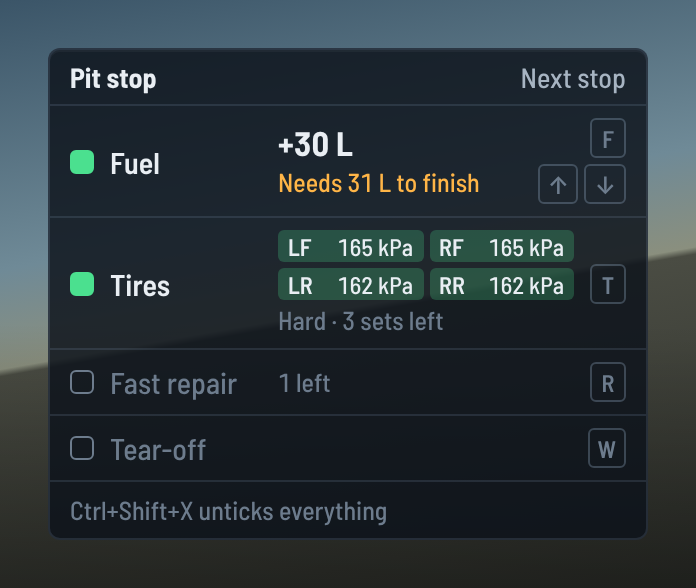
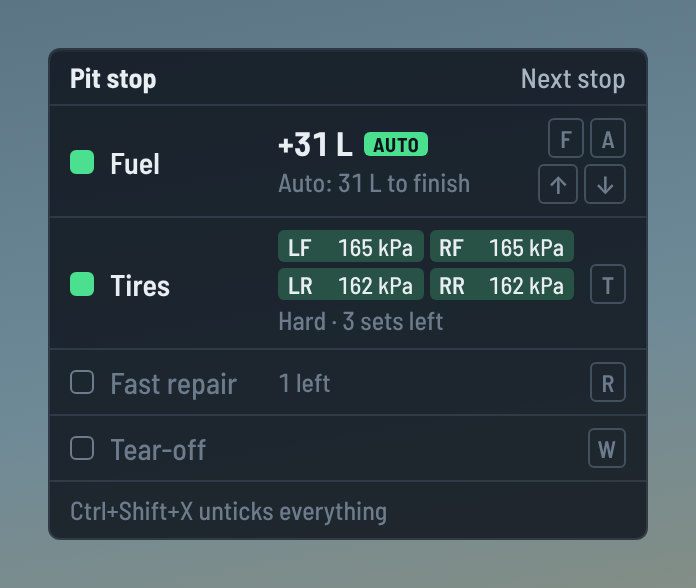
Pit stop: auto fuel to finish
Keeps iRacing's fuel amount at what you need to finish, updating it as the
estimate changes (a litre or more out, at most every 10 s, not in the pit
lane), so the amount is right whenever you box. On and off from the
Pit stop options or a new Auto fuel key (Ctrl+Shift+A); the fuel row
shows AUTO. Setting fuel by hand or unticking everything pauses it, the
fuel key or the auto key resume it.

Claude-Session: https://claude.ai/code/session_013hzfFXxra7Gh1adzFYjA4b

diff --git a/src/lib/pit.ts b/src/lib/pit.ts
@@ -7,6 +7,7 @@ import { useEffect } from "react";
 import { create } from "zustand";
 import { api, isTauri, on } from "./bridge";
 import { opt } from "./config";
+import { updateConfig } from "./store";
 import { fuel as conv, fuelUnit, type Units } from "./format";
 import { useLive } from "./store";
 import type { FuelPayload, PitAction, PitCommand, PitPayload } from "./types";
@@ -40,7 +41,7 @@ export function steppedFuel(from: number, delta: number, tankMax: number): numbe
  * fuel sets the plan, or unticks fuel when that amount is already set; tires
  * tick all four, or untick them when any are ticked.
  */
-export function pitCommands(action: Exclude<PitAction, "fuelUp" | "fuelDown">, pit: PitPayload, plan: number | null, mode: FuelMode): PitCommand[] {
+export function pitCommands(action: Exclude<PitAction, "fuelUp" | "fuelDown" | "autoFuel">, pit: PitPayload, plan: number | null, mode: FuelMode): PitCommand[] {
   switch (action) {
     case "fuel":
       if (mode === "manual") return [pit.fuel ? { kind: "clearFuel" } : { kind: "fuel", litres: 0 }];
@@ -61,6 +62,35 @@ export function pitCommands(action: Exclude<PitAction, "fuelUp" | "fuelDown">, p
 
 /** The pit action last pressed and when, so the widget can light up its key. */
 export const usePitPressed = create<{ action: PitAction | null; at: number }>(() => ({ action: null, at: 0 }));
+
+/**
+ * Auto fuel to finish: whether it's paused because you changed the fuel by
+ * hand. Pressing the fuel key, or turning auto fuel back on, resumes it.
+ */
+export const useAutoFuel = create<{ paused: boolean }>(() => ({ paused: false }));
+
+/** Auto fuel only re-sends once the plan is this far (litres) from what's set... */
+export const AUTO_FUEL_TOLERANCE = 1;
+/** ...and at most this often (ms), so a moving estimate doesn't spam iRacing. */
+const AUTO_FUEL_EVERY_MS = 10_000;
+/** When auto fuel last sent; reset when it's turned on or resumed, so it acts at once. */
+let autoLastSent = -Infinity;
+const resumeAutoFuel = () => {
+  autoLastSent = -Infinity;
+  useAutoFuel.setState({ paused: false });
+};
+
+/**
+ * What auto fuel should send now, if anything: the amount to finish, ticked,
+ * when it's a litre or more from what iRacing has; untick fuel when nothing
+ * more is needed. Null to leave it alone.
+ */
+export function autoFuelCommand(pit: PitPayload, need: number | null): PitCommand | null {
+  if (need == null) return null;
+  if (need <= 0) return pit.fuel ? { kind: "clearFuel" } : null;
+  if (pit.fuel && Math.abs(pit.fuelAmount - need) < AUTO_FUEL_TOLERANCE) return null;
+  return { kind: "fuel", litres: need };
+}
 
 /** What was last sent, for the widget to show briefly. */
 export const usePitSent = create<{ text: string | null; at: number }>(() => ({ text: null, at: 0 }));
@@ -113,6 +143,17 @@ let fuelByHand = false;
 export function runPitAction(action: PitAction) {
   usePitPressed.setState({ action, at: performance.now() });
   const { s, mode, litres, text } = plan();
+  if (action === "autoFuel") {
+    // On or off, kept in the settings; turning it on (or back on) resumes it.
+    const on = !opt(s.config.widgets.pitstop, "keepFuelSet", false) || useAutoFuel.getState().paused;
+    resumeAutoFuel();
+    updateConfig((c) => ({
+      ...c,
+      widgets: { ...c.widgets, pitstop: { ...c.widgets.pitstop, options: { ...c.widgets.pitstop.options, keepFuelSet: on } } },
+    }));
+    usePitSent.setState({ text: on ? "Auto fuel to finish on" : "Auto fuel off", at: performance.now() });
+    return;
+  }
   const pit = s.field?.pit;
   if (!pit?.available) return;
   if (action === "fuelUp" || action === "fuelDown") {
@@ -122,17 +163,21 @@ export function runPitAction(action: PitAction) {
     const next = steppedFuel(from, action === "fuelUp" ? step : -step, s.field?.fuel.max ?? 0);
     stepped = { litres: next, at: now };
     fuelByHand = true;
+    // Set by hand: auto fuel steps back until you ask for it again.
+    useAutoFuel.setState({ paused: true });
     void send([next > 0 ? { kind: "fuel", litres: next } : { kind: "clearFuel" }], fuelText(next, s.config.general.units));
     return;
   }
   stepped = null;
   if (action === "fuel" || action === "clear") fuelByHand = false;
+  if (action === "fuel") resumeAutoFuel();
+  if (action === "clear") useAutoFuel.setState({ paused: true });
   void send(pitCommands(action, pit, litres, mode), text);
 }
 
-/** Browser preview: Shift + F, ↑, ↓, T, R, W and X stand in for the Ctrl+Shift hotkeys. */
+/** Browser preview: Shift + F, ↑, ↓, A, T, R, W and X stand in for the Ctrl+Shift hotkeys. */
 const PREVIEW_KEYS: Record<string, PitAction> = {
-  f: "fuel", arrowup: "fuelUp", arrowdown: "fuelDown", t: "tires", r: "fastRepair", w: "tearoff", x: "clear",
+  f: "fuel", arrowup: "fuelUp", arrowdown: "fuelDown", a: "autoFuel", t: "tires", r: "fastRepair", w: "tearoff", x: "clear",
 };
 
 /**
@@ -165,6 +210,27 @@ export function usePitControl(owner = true) {
       window.removeEventListener("keydown", key);
     };
   }, [live]);
+
+  // Auto fuel to finish: keep iRacing's amount at what you need, as the
+  // estimate changes. Not while you're in the pit lane (the stop is under
+  // way), and not when paused because you set it by hand.
+  const keep = useLive((s) => opt(s.config.widgets.pitstop, "keepFuelSet", false));
+  useEffect(() => {
+    if (!live || !keep) return;
+    autoLastSent = -Infinity;
+    return useLive.subscribe((s, prev) => {
+      if (s.field === prev.field || useAutoFuel.getState().paused) return;
+      const pit = s.field?.pit;
+      if (!pit?.available || s.tick?.onPitRoad) return;
+      const now = performance.now();
+      if (now - autoLastSent < AUTO_FUEL_EVERY_MS) return;
+      const need = fuelPlan("finish", s.field?.fuel, opt(s.config.widgets.fuel, "marginLaps", 0.5));
+      const cmd = autoFuelCommand(pit, need);
+      if (!cmd) return;
+      autoLastSent = now;
+      void api.pitCommand(cmd);
+    });
+  }, [live, keep]);
 
   // Auto fuel: set the planned amount as you cross into the pit lane.
   useEffect(() => {

diff --git a/src/widgets/PitStop.tsx b/src/widgets/PitStop.tsx
@@ -2,7 +2,7 @@ import { useEffect, useState, type ReactNode } from "react";
 import { opt } from "../lib/config";
 import { fullLabel, shortLabel, type ActionId } from "../lib/controls";
 import { fuel as conv, fuelUnit, pressure } from "../lib/format";
-import { fuelPlan, usePitPressed, usePitSent, type FuelMode } from "../lib/pit";
+import { fuelPlan, useAutoFuel, usePitPressed, usePitSent, type FuelMode } from "../lib/pit";
 import { useLive } from "../lib/store";
 import { Empty, Panel } from "./Panel";
 import type { WidgetProps } from "./registry";
@@ -34,6 +34,8 @@ export function PitStop({ config }: WidgetProps) {
   const margin = useLive((s) => opt(s.config.widgets.fuel, "marginLaps", 0.5));
   const inCar = useLive((s) => s.tick?.isOnTrack ?? false);
   const mode = opt<FuelMode>(config, "fuelMode", "finish");
+  const autoOn = opt(config, "keepFuelSet", false);
+  const autoPaused = useAutoFuel((s) => s.paused);
   const showKeys = opt(config, "showKeys", true);
   const controls = useLive((s) => s.config.general.controls);
   const lit = useLitAction();
@@ -70,7 +72,16 @@ export function PitStop({ config }: WidgetProps) {
 
   let fuelNote: ReactNode;
   let fuelWarn = false;
-  if (mode === "manual") {
+  const finish = fuelPlan("finish", fuel, margin);
+  if (autoOn) {
+    // Auto fuel to finish keeps iRacing's amount right, so the note says what it's doing.
+    if (autoPaused) {
+      fuelNote = finish == null ? "Auto paused: set by hand" : `Auto paused · needs ${v(finish)} ${u}`;
+      fuelWarn = finish != null && finish > 0 && (!pit.fuel || Math.abs(pit.fuelAmount - finish) >= 1);
+    } else {
+      fuelNote = finish == null ? "Auto: plan after a green lap" : finish === 0 ? "Auto: enough to finish" : `Auto: ${v(finish)} ${u} to finish`;
+    }
+  } else if (mode === "manual") {
     fuelNote = "Hotkey keeps iRacing's amount";
   } else if (plan == null) {
     fuelNote = "Plan after a green lap";
@@ -84,8 +95,11 @@ export function PitStop({ config }: WidgetProps) {
 
   return (
     <Panel className="pitstop" title="Pit stop" aside={<span className={problem ? "pit-problem" : ""}>{aside}</span>}>
-      <Row label="Fuel" on={pit.fuel} hotkeys={hints(["pit.fuel"], ["pit.fuelUp", "pit.fuelDown"])}>
-        <span className="pit-value">{pit.fuel ? `+${v(pit.fuelAmount)} ${u}` : "No fuel"}</span>
+      <Row label="Fuel" on={pit.fuel} hotkeys={hints(["pit.fuel", "pit.autoFuel"], ["pit.fuelUp", "pit.fuelDown"])}>
+        <span className="pit-value">
+          {pit.fuel ? `+${v(pit.fuelAmount)} ${u}` : "No fuel"}
+          {autoOn && <span className={`pit-auto ${autoPaused ? "is-paused" : ""}`} title="Auto fuel to finish">AUTO</span>}
+        </span>
         <span className={`pit-note ${fuelWarn ? "is-warn" : ""}`}>{fuelNote}</span>
       </Row>
       <Row label="Tires" on={anyTire} hotkeys={hints(["pit.tires"])}>

diff --git a/scripts/check-pit.ts b/scripts/check-pit.ts
@@ -1,0 +1,25 @@
+// Checks auto fuel to finish: what it sends for a given pit menu and plan.
+// Run it like check-config.ts:
+//
+//   npx tsc --outDir node_modules/.cache/check --module commonjs --moduleResolution node --target ES2021 --strict --skipLibCheck scripts/check-pit.ts
+//   echo '{"type":"commonjs"}' > node_modules/.cache/check/package.json
+//   node node_modules/.cache/check/scripts/check-pit.js
+
+import { autoFuelCommand } from "../src/lib/pit";
+import type { PitPayload } from "../src/lib/types";
+
+const menu = (fuel: boolean, fuelAmount: number) => ({ fuel, fuelAmount }) as PitPayload;
+const cases: [PitPayload, number | null, string][] = [
+  [menu(false, 0), null, "null"], // no plan yet: leave it
+  [menu(false, 0), 28, '{"kind":"fuel","litres":28}'], // tick it with the amount
+  [menu(true, 27.6), 28, "null"], // within a litre: leave it
+  [menu(true, 20), 28, '{"kind":"fuel","litres":28}'], // a litre or more off: update
+  [menu(true, 35), 28, '{"kind":"fuel","litres":28}'], // too much: bring it down
+  [menu(true, 10), 0, '{"kind":"clearFuel"}'], // enough already: untick
+  [menu(false, 10), 0, "null"], // already unticked
+];
+for (const [pit, need, want] of cases) {
+  const got = JSON.stringify(autoFuelCommand(pit, need));
+  if (got !== want) throw new Error(`fuel ${pit.fuel} ${pit.fuelAmount}, need ${need}: got ${got}, want ${want}`);
+}
+console.log(`pit checks passed (${cases.length})`);

diff --git a/src/lib/controls.ts b/src/lib/controls.ts
@@ -29,7 +29,7 @@ export interface ControlBinding {
 export type ActionId =
   | "overlay.edit" | "overlay.toggle" | "layout.next"
   | "layout.1" | "layout.2" | "layout.3" | "layout.4" | "layout.5" | "layout.6" | "layout.7" | "layout.8" | "layout.9"
-  | "pit.fuel" | "pit.fuelUp" | "pit.fuelDown" | "pit.tires" | "pit.fastRepair" | "pit.tearoff" | "pit.clear";
+  | "pit.fuel" | "pit.fuelUp" | "pit.fuelDown" | "pit.autoFuel" | "pit.tires" | "pit.fastRepair" | "pit.tearoff" | "pit.clear";
 
 export interface ActionMeta {
   id: ActionId;
@@ -49,6 +49,7 @@ export const ACTIONS: ActionMeta[] = [
   { id: "pit.fuel", label: "Fuel: set the plan, or untick", group: "Pit stop", key: "KeyF" },
   { id: "pit.fuelUp", label: "More fuel", group: "Pit stop", key: "ArrowUp" },
   { id: "pit.fuelDown", label: "Less fuel", group: "Pit stop", key: "ArrowDown" },
+  { id: "pit.autoFuel", label: "Auto fuel to finish: on or off", group: "Pit stop", key: "KeyA" },
   { id: "pit.tires", label: "Four tires, or none", group: "Pit stop", key: "KeyT" },
   { id: "pit.fastRepair", label: "Fast repair", group: "Pit stop", key: "KeyR" },
   { id: "pit.tearoff", label: "Tear-off", group: "Pit stop", key: "KeyW" },

diff --git a/src/lib/config.ts b/src/lib/config.ts
@@ -283,6 +283,7 @@ export const WIDGETS: WidgetMeta[] = [
         ],
       },
       { key: "fuelStep", label: "Fuel up and down step", type: "number", default: 5, min: 1, max: 20, suffix: "L", help: "How much the more fuel and less fuel controls add or take off, in litres" },
+      { key: "keepFuelSet", label: "Auto fuel to finish", type: "toggle", default: false, help: "Keeps iRacing's fuel amount at what you need to finish (with the Fuel widget's margin), updating it as the estimate changes, so whenever you pit it's right. Changing the fuel by hand pauses it; the Auto fuel key turns it on and off" },
       { key: "autoFuel", label: "Set fuel as you enter the pits", type: "toggle", default: false, help: "Ticks fuel with the planned amount when you cross pit entry, unless it's already set or you've changed it with more or less fuel" },
       { key: "showKeys", label: "Show the hotkeys", type: "toggle", default: true, help: "The key or wheel button for each row" },
     ],

diff --git a/src/styles/overlay.css b/src/styles/overlay.css
@@ -2844,3 +2844,19 @@
 [data-theme="light"] .rate-btn:not(.is-on) {
   color: var(--ink-2);
 }
+
+/* Auto fuel to finish, in the Pit stop's fuel row. */
+.pit-auto {
+  margin-left: 6px;
+  padding: 0 4px;
+  border-radius: 3px;
+  background: var(--gain);
+  color: var(--panel-solid);
+  font-size: 10px;
+  font-weight: 800;
+  letter-spacing: 0.04em;
+  vertical-align: 2px;
+}
+.pit-auto.is-paused {
+  background: var(--ink-3);
+}

diff --git a/src/lib/types.ts b/src/lib/types.ts
@@ -393,7 +393,7 @@ export interface ButtonPress {
 }
 
 /** What a pit hotkey asks for. */
-export type PitAction = "fuel" | "fuelUp" | "fuelDown" | "tires" | "fastRepair" | "tearoff" | "clear";
+export type PitAction = "fuel" | "fuelUp" | "fuelDown" | "autoFuel" | "tires" | "fastRepair" | "tearoff" | "clear";
 
 export interface FieldPayload {
   clock: SessionClock;

diff --git a/README.md b/README.md
@@ -29,7 +29,7 @@ layout turns on fewer, and you can place each one wherever you like.
   delta graph, a lap log, live coaching, inputs, car dynamics, dash lights, fuel, tires, pit stop,
   weather, a radar and an LED flag board. Each one has its own options.
 - **Pit stop controls**: tick fuel (enough to finish, a full tank, or a few
-  litres more or less), tires, fast repair and a tear-off for your next stop
+  litres more or less, or let auto fuel keep it at enough to finish), tires, fast repair and a tear-off for your next stop
   without opening iRacing's pit menu, and see what iRacing has ticked.
 - **Your keys, your wheel buttons**: every shortcut can be changed, and any
   action can also go on a button on your wheel, button box or gamepad.
@@ -350,6 +350,7 @@ default keys; put them on other keys or on buttons in
 | -------------------- | ---- |
 | `Ctrl + Shift + F`   | Fuel: the amount to finish (from the Fuel widget, with its safety margin), or a full tank. Press again to untick it, or to update it once the amount has changed. |
 | `Ctrl + Shift + ↑` `↓` | A few litres more or less (5 by default). Quick presses add up. |
+| `Ctrl + Shift + A`   | Auto fuel to finish, on or off (see below) |
 | `Ctrl + Shift + T`   | All four tires, or untick them |
 | `Ctrl + Shift + R`   | Fast repair |
 | `Ctrl + Shift + W`   | Windscreen tear-off |
@@ -364,10 +365,23 @@ take `Ctrl+Shift+T` and the rest from other programs the rest of the time. Each
 row shows its key, or its wheel button if it has one, and lights it up for a
 moment when you press it. Off by default.
 
+**Auto fuel to finish.** With it on, Tenths keeps iRacing's fuel amount at
+what you need to finish (from the Fuel widget, with its safety margin),
+updating it as the estimate changes, so whenever you box the amount is already
+right. It only changes the amount when it's a litre or more out, at most every
+10 seconds, and not while you're in the pit lane. The fuel row shows **AUTO**.
+Changing the fuel with more or less, or unticking everything, pauses it (AUTO
+goes grey) so it doesn't fight you; the fuel key or the Auto fuel key picks it
+back up.
+
+This is Tenths' own, using the same commands as the keys. iRacing also has an
+AutoFuel of its own (the checkbox in the fuel black box, or the `#autofuel`
+chat command), which plans from its own fuel data; use one or the other.
+
 *Options*: what the fuel key adds (enough to finish, a full tank, or the
-amount already set in iRacing), how much more or less fuel changes it, set
-fuel automatically as you enter the pits (skipped if you've changed it by
-hand), and show the keys.
+amount already set in iRacing), how much more or less fuel changes it, auto
+fuel to finish, set fuel automatically as you enter the pits (skipped if
+you've changed it by hand), and show the keys.
 
 ### Radar
 
@@ -731,8 +745,9 @@ cargo run -p telemetry --example timed_finish -- race.ibt  # flags and time left
 
 Before committing, run `npm run build` (type-checks the front end), `npm run lint`
 and `cargo clippy --workspace --all-targets`. Layout validation, the
-iRating estimate and the incident limits have their own checks: see the top of
-`scripts/check-config.ts`, `scripts/check-irating.ts` and `scripts/check-incidents.ts`.
+iRating estimate, the incident limits and auto fuel have their own checks: see
+the top of `scripts/check-config.ts`, `scripts/check-irating.ts`,
+`scripts/check-incidents.ts` and `scripts/check-pit.ts`.
 
 ## Project layout
 

diff --git a/docs/ARCHITECTURE.md b/docs/ARCHITECTURE.md
@@ -57,6 +57,14 @@ pit keys and buttons (`set_pit_active`) while the Pit stop widget is on and the 
 in the car. To be confirmed in the sim: the variable names above, and that a
 fuel amount of 0 keeps the amount already set.
 
+Auto fuel to finish (`pitstop.options.keepFuelSet`, toggled by `pit.autoFuel`)
+runs in the primary overlay while the pit controls are live: on field updates,
+off pit road, at most every 10 s, `autoFuelCommand` sends the finish amount
+when it's ≥ 1 L from what iRacing reports (or unticks fuel when nothing more is
+needed). More/less fuel and untick-all pause it (`useAutoFuel`); the fuel key
+or the auto key resume it. iRacing's own AutoFuel can't be set from the SDK
+(only by its black box or the `#autofuel` chat command), so this is separate.
+
 ### Engine maths worth knowing
 
 - **Relative gap**: `CarIdxEstTime` is the time to reach a car's spot on track
